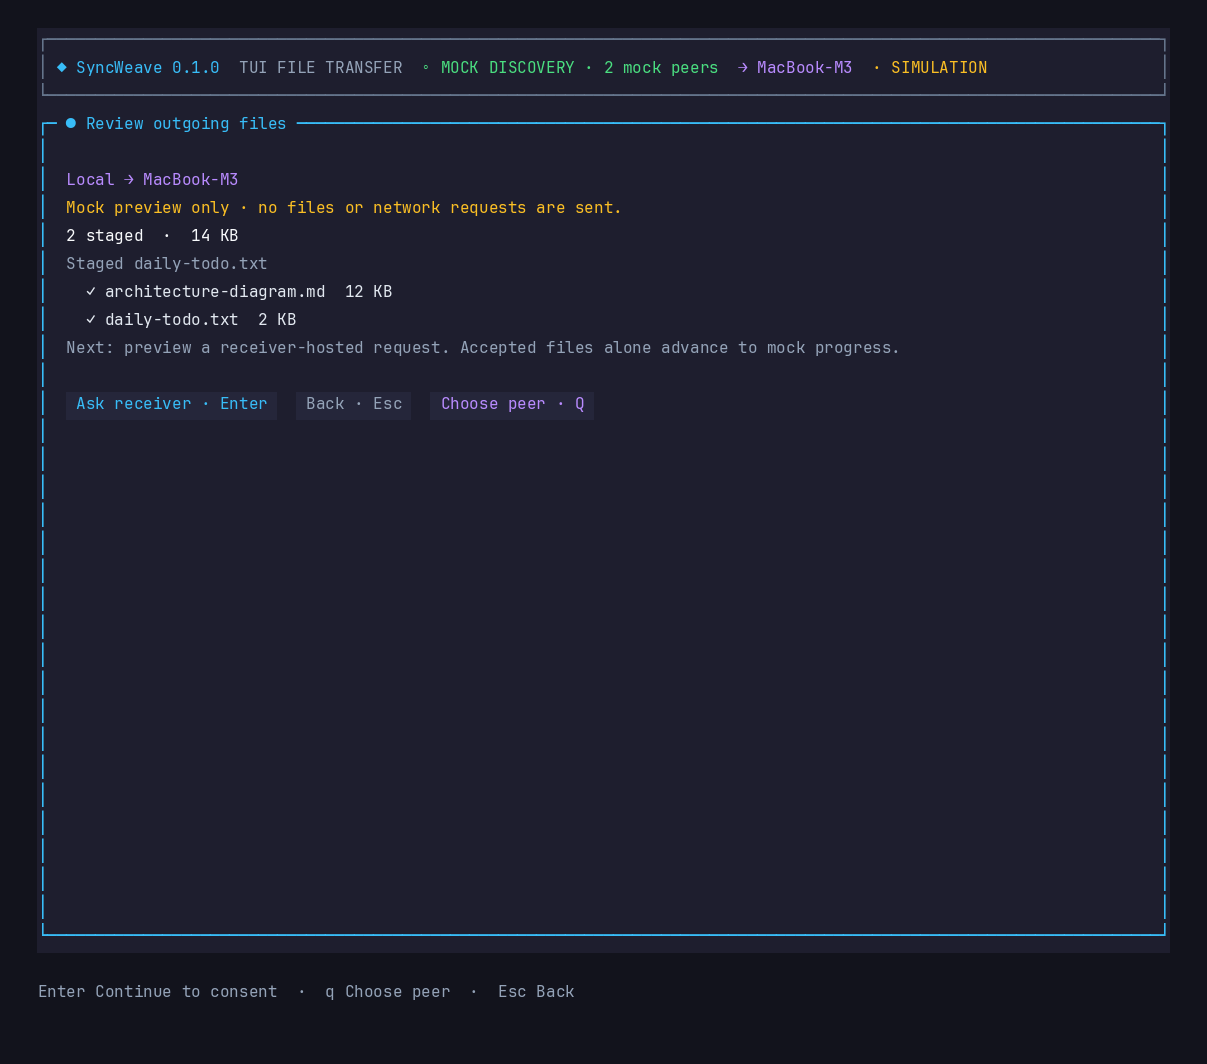
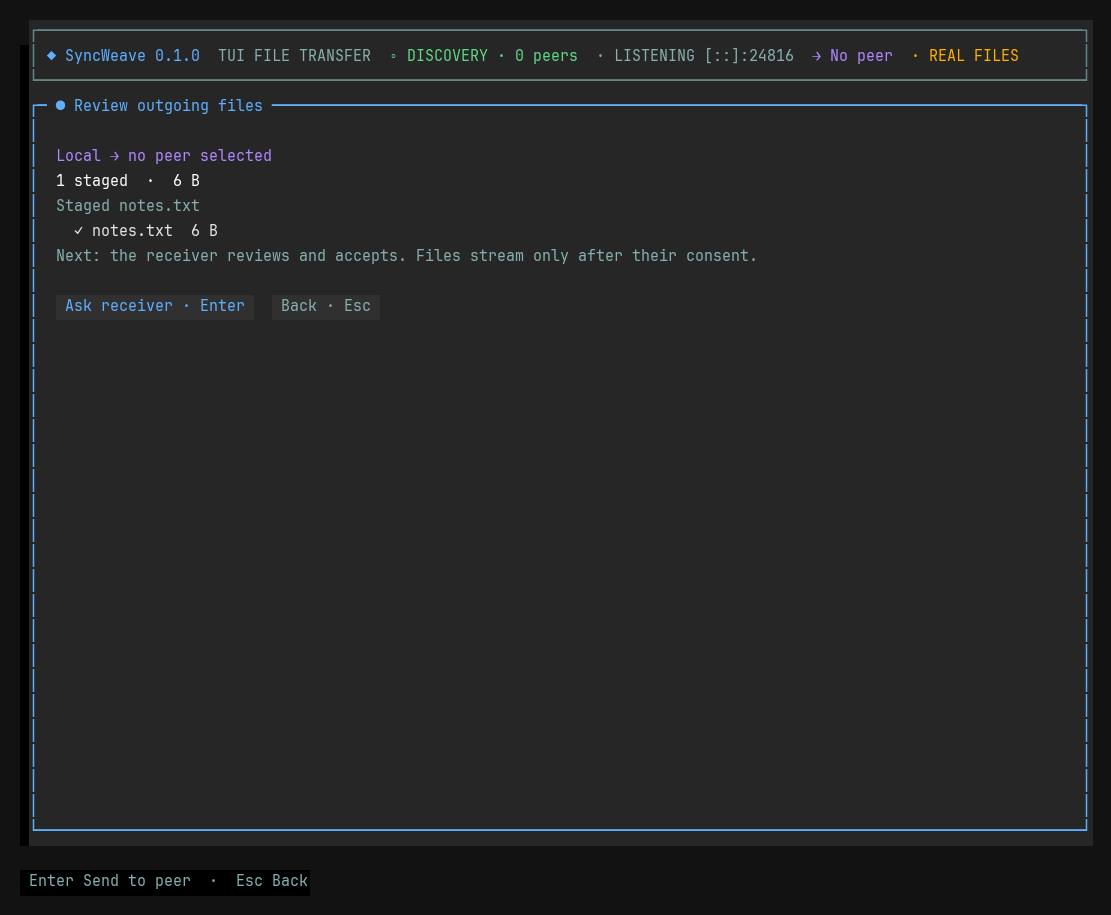
docs: real-mode screenshots in README
Replace mock-mode captures with screenshots from the actual app running
in --real mode via tmux: no 'MOCK'/'SIMULATION' mentions, remote pane
shows peer/session status (never receiver files) per the UI scope
decision. Captured with tmux capture-pane -e, rendered to PNG with the
Nerd Font.

diff --git a/scripts/capture-screens.ts b/scripts/capture-screens.ts
@@ -1,52 +1,97 @@
-/** Capture TUI screens as styled spans for true-color README screenshots. */
+/** Capture TUI screens in REAL mode — what a user actually sees. */
 import { writeFileSync, mkdirSync } from "node:fs"
+import { mkdtemp, mkdir, writeFile } from "node:fs/promises"
+import { tmpdir } from "node:os"
+import { join } from "node:path"
 import { createTestRenderer } from "@opentui/core/testing"
-import { createSyncWeaveApp, type AppDependencies } from "../src/app.js"
-import { MockFileSystemService } from "../src/services/mock-filesystem.js"
-import { MockPeerService } from "../src/services/mock-peer-service.js"
-import { mockDestinations, MockTransferService } from "../src/services/mock-transfer-service.js"
+import { createSyncWeaveApp } from "../src/app.js"
+import { RealFileSystemService } from "../src/services/real-filesystem.js"
+import { NullPeerService } from "../src/services/null-services.js"
+import { MockTransferService } from "../src/services/mock-transfer-service.js"
+import { NullTransferService } from "../src/services/null-services.js"
+import { listenNoise } from "../src/services/transport.js"
 
 process.env.SYNCWEAVE_REDUCED_MOTION = "1"
-// NOTE: NOT setting SYNCWEAVE_ASCII — capture what a real user sees.
 
 const OUT = "docs/screenshots"
 mkdirSync(OUT, { recursive: true })
 
-function mockDependencies(): AppDependencies {
-  return {
-    filesystem: new MockFileSystemService(),
-    peerService: new MockPeerService(),
-    transferService: new MockTransferService(),
-    receiveDestinations: mockDestinations,
+type Span = { text: string; fg: [number, number, number]; bg: [number, number, number] }
+
+async function withRealApp(fn: (ctx: { setup: any; app: any; root: string }) => Promise<void>) {
+  const base = await mkdtemp(join(tmpdir(), "sw-shot-"))
+  const root = join(base, "local")
+  const receiveDir = join(base, "Downloads")
+  await mkdir(join(root, "photos"), { recursive: true })
+  await mkdir(join(root, "docs"), { recursive: true })
+  await mkdir(receiveDir, { mode: 0o700, recursive: true })
+  await writeFile(join(root, "report.pdf"), new Uint8Array(245000))
+  await writeFile(join(root, "notes.txt"), "hello")
+  await writeFile(join(root, "photos", "sunset.jpg"), new Uint8Array(1800000))
+  await writeFile(join(root, "docs", "plan.md"), "# plan")
+
+  const listener = await listenNoise({ host: "127.0.0.1", port: 0 })
+  const peers = [
+    { id: "peer1", name: "laptop2", host: "192.168.1.42", port: 24816, online: true, lastSeen: Date.now(), source: "lan" as const },
+  ]
+  const discovery = { listPeers: () => peers, start: async () => {}, stop: () => {} }
+  const real = {
+    announcedPeerId: "shot-fixture-id",
+    listener,
+    discovery,
+    alias: "mylaptop",
+    tcpPort: listener.port,
+    receiveDirectory: receiveDir,
+    aborter: new AbortController(),
+    startupWarning: null,
+    bindAddr: "127.0.0.1",
+  }
+  const setup = await createTestRenderer({ width: 120, height: 36 })
+  const app = createSyncWeaveApp(setup.renderer, {
+    filesystem: new RealFileSystemService(root),
+    peerService: new NullPeerService(),
+    transferService: new NullTransferService(),
+    receiveDestinations: [receiveDir],
+    mode: "real",
+    real,
+  })
+  // Inject the fake peer into app state for the shot
+  await setup.flush()
+  try {
+    await fn({ setup, app, root })
+  } finally {
+    ;(real.aborter as AbortController).abort()
+    app.dispose()
+    try { await setup.renderer.destroy() } catch {}
+    await listener.close().catch(() => {})
+    const { rm } = await import("node:fs/promises")
+    await rm(base, { recursive: true, force: true })
   }
 }
 
-type Span = { text: string; fg: [number, number, number]; bg: [number, number, number] }
-
-async function capture(name: string, actions: (ctx: { setup: any; app: any }) => Promise<void>, width = 120, height = 36) {
-  const setup = await createTestRenderer({ width, height })
-  const app = createSyncWeaveApp(setup.renderer, mockDependencies())
-  await setup.flush()
-  await actions({ setup, app })
-  await setup.flush()
-  await new Promise((r) => setTimeout(r, 150))
-  await setup.flush()
-  const captured = setup.captureSpans() as { cols: number; rows: number; lines: Array<{ spans: any[] }> }
-  const lines: Span[][] = captured.lines.map((line) =>
-    line.spans.map((s) => ({
-      text: s.text as string,
-      fg: [s.fg.buffer[0], s.fg.buffer[1], s.fg.buffer[2]] as [number, number, number],
-      bg: [s.bg.buffer[0], s.bg.buffer[1], s.bg.buffer[2]] as [number, number, number],
-    })),
-  )
-  writeFileSync(`${OUT}/${name}.spans.json`, JSON.stringify({ cols: captured.cols, rows: captured.rows, lines }))
-  console.log(`captured ${name}: ${lines.length} rows`)
-  app.dispose()
-  try { await setup.renderer.destroy() } catch {}
+async function capture(name: string, actions: (ctx: { setup: any; app: any; root: string }) => Promise<void>) {
+  await withRealApp(async (ctx) => {
+    await actions(ctx)
+    await ctx.setup.flush()
+    await new Promise((r) => setTimeout(r, 150))
+    await ctx.setup.flush()
+    const captured = ctx.setup.captureSpans() as { cols: number; rows: number; lines: Array<{ spans: any[] }> }
+    const lines: Span[][] = captured.lines.map((line) =>
+      line.spans.map((s) => ({
+        text: s.text as string,
+        fg: [s.fg.buffer[0], s.fg.buffer[1], s.fg.buffer[2]] as [number, number, number],
+        bg: [s.bg.buffer[0], s.bg.buffer[1], s.bg.buffer[2]] as [number, number, number],
+      })),
+    )
+    writeFileSync(`${OUT}/${name}.spans.json`, JSON.stringify({ cols: captured.cols, rows: captured.rows, lines }))
+    console.log(`captured ${name}`)
+  })
 }
 
+// 1. Real-mode workspace: local files left, peer status right (no receiver files)
 await capture("01-workspace", async () => {})
 
+// 2. Workspace with staged files
 await capture("02-workspace-staged", async ({ setup }) => {
   setup.mockInput.pressKey(" ")
   await setup.flush()
@@ -56,37 +101,19 @@ await capture("02-workspace-staged", async ({ setup }) => {
   await setup.flush()
 })
 
+// 3. Send review (real mode)
 await capture("03-send-review", async ({ setup }) => {
-  setup.mockInput.pressKey(" ")
-  await setup.flush()
-  setup.mockInput.pressKey("ARROW_DOWN")
-  await setup.flush()
   setup.mockInput.pressKey(" ")
   await setup.flush()
   setup.mockInput.pressKey("s")
   await setup.flush()
 })
 
-await capture("04-consent-incoming", async ({ setup }) => {
-  setup.mockInput.pressKey("i")
-  await setup.flush()
-})
-
+// 4. Help
 await capture("05-help", async ({ setup }) => {
   setup.mockInput.pressKey("?")
   await setup.flush()
 })
 
-await capture("06-peers", async ({ setup }) => {
-  setup.mockInput.pressKey("q")
-  await setup.flush()
-})
-
-await capture("07-transfer", async ({ setup }) => {
-  setup.mockInput.pressKey("i")
-  await setup.flush()
-  setup.mockInput.pressEnter()
-  await setup.flush()
-})
-
 console.log("done")
+process.exit(0)

diff --git a/README.md b/README.md
@@ -15,37 +15,31 @@ Nothing ever leaves your network. There are no servers, no accounts, and no tele
 
 ## Screenshots
 
-### Workspace — stage files, choose a peer
+Captured from the real app running in `--real` mode — live files, real theme, no simulation.
 
-The local pane shows your files; the remote pane shows the selected peer. Staged files are highlighted and tallied at the bottom.
+### Workspace — your files, peer status, never their files
+
+The local pane shows your files; the remote pane shows peer, session, and transfer status only. The receiver's filesystem is never visible — that's out of scope by design.
+
+![SyncWeave workspace in real mode](docs/screenshots/01-workspace.png)
+
+### Staging — pick what goes
+
+`Space` stages files. The tally at the bottom keeps count.
 
 ![Workspace with staged files](docs/screenshots/02-workspace-staged.png)
 
 ### Send review — confirm before anything moves
 
-Review exactly what will go out and to whom. In real mode this is also where both sides compare the security code before any file names cross the wire.
+Review exactly what will go out. In real mode this is also where both sides compare the security code before any file names cross the wire.
 
 ![Send review](docs/screenshots/03-send-review.png)
-
-### Consent — nothing arrives uninvited
-
-Every incoming transfer waits for your explicit approval. You see the sender, the file list, the destination, and the security code — accept all, accept a subset, or decline. You have 60 seconds to decide.
-
-![Incoming consent screen](docs/screenshots/04-consent-incoming.png)
-
-### Transfer — per-file acknowledgement
-
-The sender only reports success when the receiver acknowledges each file with a matching hash and size. Name collisions never overwrite: the second copy becomes `name (1).ext`.
-
-![Transfer progress](docs/screenshots/07-transfer.png)
 
 ### Help — every key, one screen away
 
 Press `?` anywhere.
 
 ![Help screen](docs/screenshots/05-help.png)
-
-> Screenshots were captured from the app's own test renderer — real frames, real theme, real Nerd Font icons. Mock mode is shown; the layout is identical in real mode.
 
 ## Modes
 
